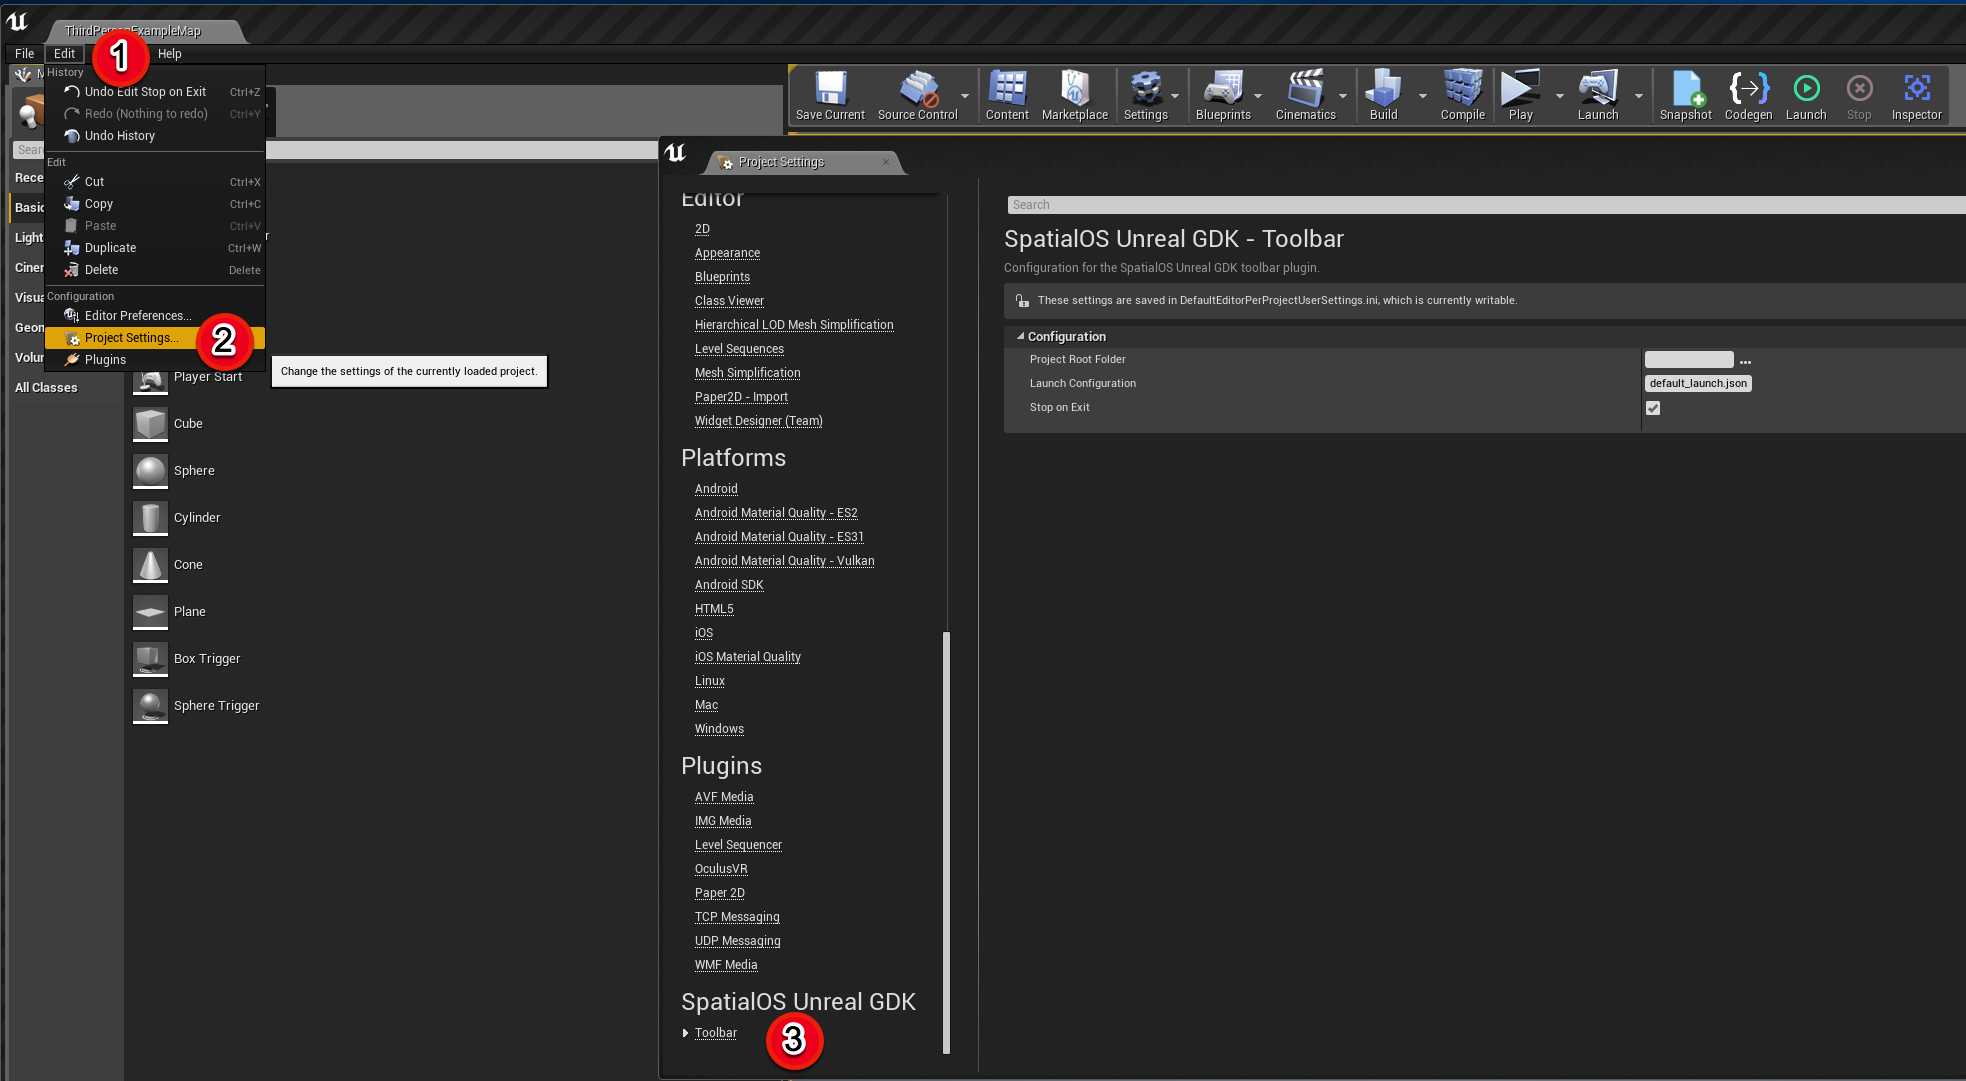
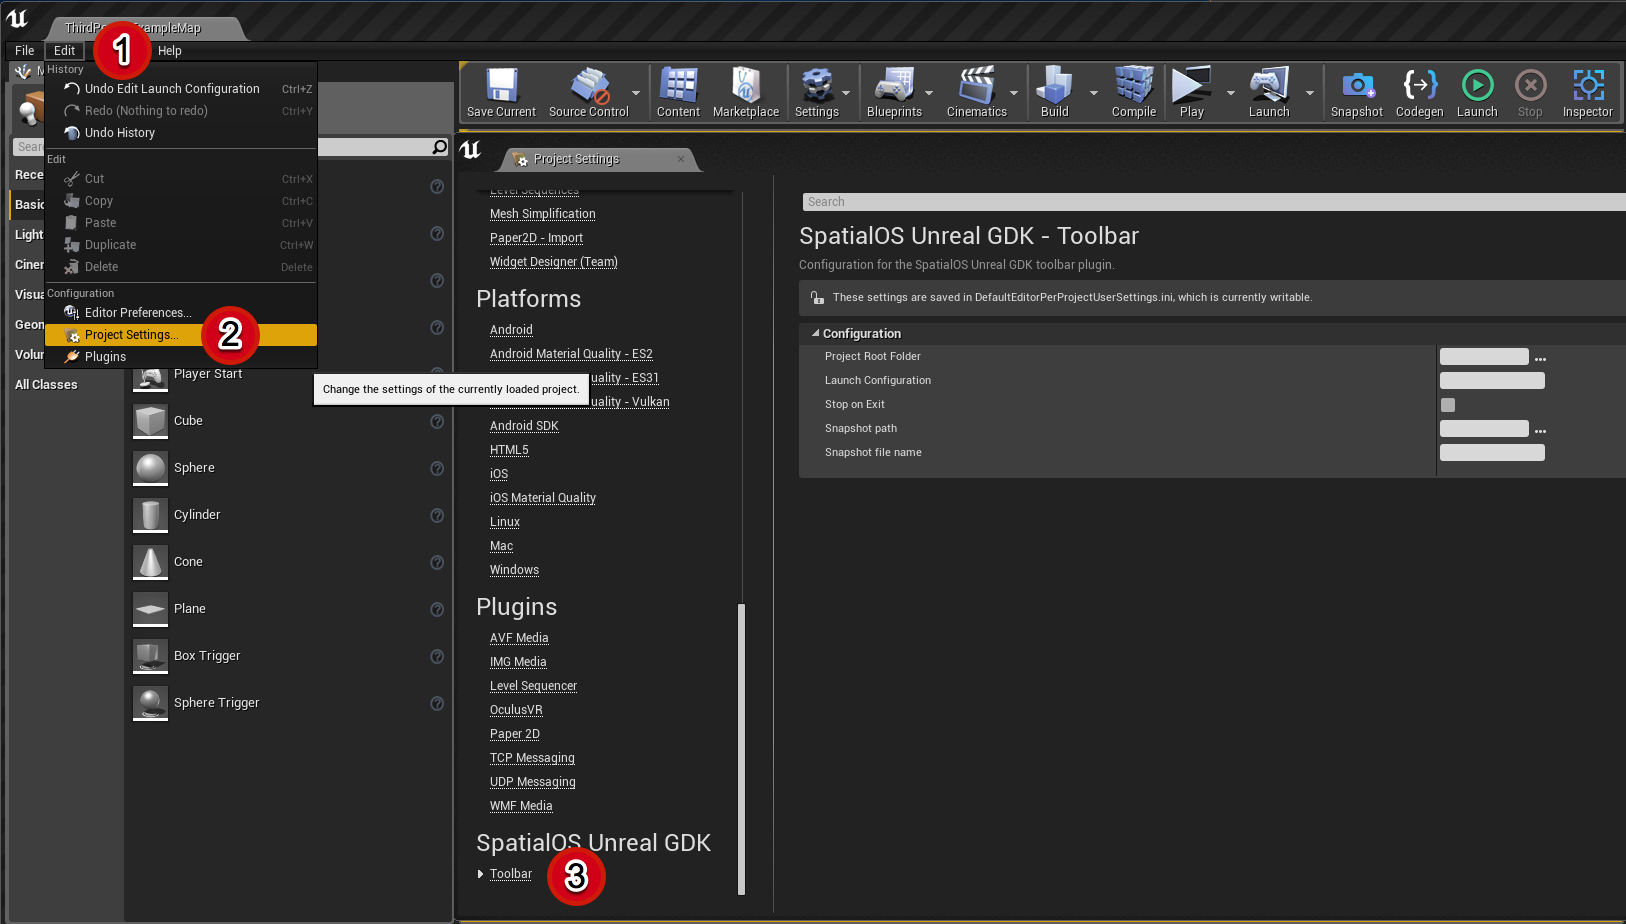
UNR-432 snapshot path config (#257)
* Extend settings by snapshot configs

* Update toolbar settings docs and screenshot

Changed region(s): [[0.0, 0.0, 1.0, 1.0], [0.492, 0.1818, 1.0, 0.5152]]

diff --git a/Plugins/SpatialGDK/SpatialGDKEditorToolbar/Source/SpatialGDKEditorToolbar/Private/SpatialGDKEditorGenerateSnapshot.cpp b/Plugins/SpatialGDK/SpatialGDKEditorToolbar/Source/SpatialGDKEditorToolbar/Private/SpatialGDKEditorGenerateSnapshot.cpp
@@ -5,8 +5,8 @@
 #include "SpatialConstants.h"
 #include "SpatialOSCommon.h"
 #include "SpatialGDKEditorUtils.h"
+#include "SpatialGDKEditorToolbarSettings.h"
 #include "Runtime/Core/Public/HAL/PlatformFilemanager.h"
-
 #include <improbable/standard_library.h>
 #include <improbable/unreal/gdk/level_data.h>
 #include <improbable/unreal/gdk/spawner.h>
@@ -122,27 +122,61 @@ worker::Entity CreateGlobalStateManagerEntity(const NameToEntityIdMap& Singleton
 
 } // ::
 
-bool SpatialGDKGenerateSnapshot(FString SavePath, UWorld* World)
+bool ValidateAndCreateSnapshotGenerationPath(FString& SavePath)
 {
-	if (!FPaths::CollapseRelativeDirectories(SavePath))
+	FString DirectoryPath = FPaths::GetPath(SavePath);
+	if (!FPaths::CollapseRelativeDirectories(DirectoryPath))
 	{
-		UE_LOG(LogSpatialGDKSnapshot, Error, TEXT("Invalid path: %s - snapshot not generated"), *SavePath);
+		UE_LOG(LogSpatialGDKSnapshot, Error, TEXT("Invalid path: %s - snapshot not generated"), *DirectoryPath);
 		return false;
 	}
 
-	if (!FPaths::DirectoryExists(SavePath))
+	if (!FPaths::DirectoryExists(DirectoryPath))
 	{
-		UE_LOG(LogSpatialGDKSnapshot, Display, TEXT("Snapshot directory does not exist - creating directory: %s"), *SavePath);
-		if (!FPlatformFileManager::Get().GetPlatformFile().CreateDirectoryTree(*SavePath))
+		UE_LOG(LogSpatialGDKSnapshot, Display, TEXT("Snapshot directory does not exist - creating directory: %s"), *DirectoryPath);
+		if (!FPlatformFileManager::Get().GetPlatformFile().CreateDirectoryTree(*DirectoryPath))
 		{
-			UE_LOG(LogSpatialGDKSnapshot, Error, TEXT("Unable to create directory: %s - snapshot not generated"), *SavePath);
+			UE_LOG(LogSpatialGDKSnapshot, Error, TEXT("Unable to create directory: %s - snapshot not generated"), *DirectoryPath);
 			return false;
 		}
 	}
+	return true;
+}
 
-	const FString FullPath = FPaths::Combine(*SavePath, TEXT("default.snapshot"));
-	UE_LOG(LogSpatialGDKSnapshot, Display, TEXT("Saving snapshot to: %s"), *FullPath);
-	worker::SnapshotOutputStream OutputStream = worker::SnapshotOutputStream(improbable::unreal::Components{}, TCHAR_TO_UTF8(*FullPath));
+FString SetupSnapshotGenerationPath()
+{
+	// Default path and file names.
+	const FString& ProjectFilePath = FPaths::ConvertRelativePathToFull(*FPaths::GetPath(FPaths::GetProjectFilePath()));
+	FString SavePath = FPaths::Combine(*ProjectFilePath, TEXT("../spatial/snapshots"));
+	FString SnapshotFileName = TEXT("default.snapshot");
+
+	if (const USpatialGDKEditorToolbarSettings* Settings = GetDefault<USpatialGDKEditorToolbarSettings>())
+	{
+		if (!Settings->SpatialOSSnapshotPath.Path.IsEmpty())
+		{
+			SavePath = Settings->SpatialOSSnapshotPath.Path;
+		}
+
+		if (!Settings->SpatialOSSnapshotFile.IsEmpty())
+		{
+			SnapshotFileName = Settings->SpatialOSSnapshotFile;
+		}
+	}
+
+	SavePath = FPaths::Combine(*SavePath, SnapshotFileName);
+	return SavePath;
+}
+
+bool SpatialGDKGenerateSnapshot(UWorld* World)
+{
+	FString SavePath = SetupSnapshotGenerationPath();
+	if (!ValidateAndCreateSnapshotGenerationPath(SavePath))
+	{
+		return false;
+	}
+
+	UE_LOG(LogSpatialGDKSnapshot, Display, TEXT("Saving snapshot to: %s"), *SavePath);
+	worker::SnapshotOutputStream OutputStream = worker::SnapshotOutputStream(improbable::unreal::Components{}, TCHAR_TO_UTF8(*SavePath));
 
 	// Create spawner entity.
 	worker::Option<std::string> Result = OutputStream.WriteEntity(SpatialConstants::SPAWNER_ENTITY_ID, CreateSpawnerEntity());
@@ -179,6 +213,6 @@ bool SpatialGDKGenerateSnapshot(FString SavePath, UWorld* World)
 		}
 	}
 
-	UE_LOG(LogSpatialGDKSnapshot, Display, TEXT("Snapshot exported to the path: %s"), *FullPath);
+	UE_LOG(LogSpatialGDKSnapshot, Display, TEXT("Snapshot exported to the path: %s"), *SavePath);
 	return true;
 }

diff --git a/Plugins/SpatialGDK/SpatialGDKEditorToolbar/Source/SpatialGDKEditorToolbar/Private/SpatialGDKEditorToolbarSettings.cpp b/Plugins/SpatialGDK/SpatialGDKEditorToolbar/Source/SpatialGDKEditorToolbar/Private/SpatialGDKEditorToolbarSettings.cpp
@@ -1,9 +1,14 @@
 // Copyright (c) Improbable Worlds Ltd, All Rights Reserved
 #include "SpatialGDKEditorToolbarSettings.h"
 
-USpatialGDKEditorToolbarSettings::USpatialGDKEditorToolbarSettings(const FObjectInitializer& ObjectInitializer) : SpatialOSLaunchConfig(TEXT("default_launch.json")), bStopSpatialOnExit(false), Super(ObjectInitializer)
+USpatialGDKEditorToolbarSettings::USpatialGDKEditorToolbarSettings(const FObjectInitializer& ObjectInitializer)
+	: Super(ObjectInitializer),
+	SpatialOSLaunchConfig(TEXT("default_launch.json")),
+	bStopSpatialOnExit(false),
+	SpatialOSSnapshotFile(FString(TEXT("default.snapshot")))
 {
 	ProjectRootFolder.Path = FPaths::ConvertRelativePathToFull(FPaths::GetPath(FPaths::GetProjectFilePath()) + FString(TEXT("/../spatial/")));
+	SpatialOSSnapshotPath.Path = FPaths::Combine(*ProjectRootFolder.Path, TEXT("snapshots/"));
 }
 
 FString USpatialGDKEditorToolbarSettings::ToString()
@@ -12,8 +17,11 @@ FString USpatialGDKEditorToolbarSettings::ToString()
 	Args.Add(ProjectRootFolder.Path);
 	Args.Add(SpatialOSLaunchConfig);
 	Args.Add(bStopSpatialOnExit);
+	Args.Add(SpatialOSSnapshotPath.Path);
+	Args.Add(SpatialOSSnapshotFile);
 
 	return FString::Format(TEXT("ProjectRootFolder={0}, SpatialOSLaunchArgument={1}, "
-								"bStopSpatialOnExit={2}"),
+		"bStopSpatialOnExit={2}, SpatialOSSnapshotPath={3}, "
+		"SpatialOSSnapshotFile={4}"),
 						   Args);
 }

diff --git a/Plugins/SpatialGDK/SpatialGDKEditorToolbar/Source/SpatialGDKEditorToolbar/Public/SpatialGDKEditorToolbarSettings.h b/Plugins/SpatialGDK/SpatialGDKEditorToolbar/Source/SpatialGDKEditorToolbar/Public/SpatialGDKEditorToolbarSettings.h
@@ -25,6 +25,14 @@ public:
 	UPROPERTY(EditAnywhere, config, Category = "Configuration", meta = (ConfigRestartRequired = false, DisplayName = "Stop on Exit"))
 	bool bStopSpatialOnExit;
 
+	/** Path to your SpatialOS snapshot. */
+	UPROPERTY(EditAnywhere, config, Category = "Configuration", meta = (ConfigRestartRequired = false, DisplayName = "Snapshot path"))
+	FDirectoryPath SpatialOSSnapshotPath;
+
+	/** Name of your SpatialOS snapshot file. */
+	UPROPERTY(EditAnywhere, config, Category = "Configuration", meta = (ConfigRestartRequired = false, DisplayName = "Snapshot file name"))
+	FString SpatialOSSnapshotFile;
+
 	UFUNCTION()
 	FString ToString();
 };

diff --git a/Plugins/SpatialGDK/SpatialGDKEditorToolbar/Source/SpatialGDKEditorToolbar/Private/SpatialGDKEditorToolbar.cpp b/Plugins/SpatialGDK/SpatialGDKEditorToolbar/Source/SpatialGDKEditorToolbar/Private/SpatialGDKEditorToolbar.cpp
@@ -237,9 +237,7 @@ void FSpatialGDKEditorToolbarModule::CreateSnapshotButtonClicked()
 {
 	ShowTaskStartNotification("Started snapshot generation");
 
-	FString ProjectFilePath = IFileManager::Get().ConvertToAbsolutePathForExternalAppForRead(*FPaths::GetPath(FPaths::GetProjectFilePath()));
-	FString CombinedPath = FPaths::Combine(*ProjectFilePath, TEXT("../spatial/snapshots"));
-	const bool bSuccess = SpatialGDKGenerateSnapshot(CombinedPath, GEditor->GetEditorWorldContext().World());
+	const bool bSuccess = SpatialGDKGenerateSnapshot(GEditor->GetEditorWorldContext().World());
 
 	if(bSuccess)
 	{

diff --git a/Plugins/SpatialGDK/SpatialGDKEditorToolbar/Source/SpatialGDKEditorToolbar/Public/SpatialGDKEditorGenerateSnapshot.h b/Plugins/SpatialGDK/SpatialGDKEditorToolbar/Source/SpatialGDKEditorToolbar/Public/SpatialGDKEditorGenerateSnapshot.h
@@ -4,4 +4,4 @@
 
 DECLARE_LOG_CATEGORY_EXTERN(LogSpatialGDKSnapshot, Log, All);
 
-bool SpatialGDKGenerateSnapshot(FString SavePath, UWorld* World);
+bool SpatialGDKGenerateSnapshot(UWorld* World);

diff --git a/docs/content/toolbar.md b/docs/content/toolbar.md
@@ -68,3 +68,9 @@ The [launch configuration file](https://docs.improbable.io/reference/13.1/shared
 
 * **Stop on Exit**</br>
 If enabled, shuts down running deployments when you close the Unreal Editor.
+
+* **Snapshot path**</br>
+Path to your SpatialOS Unreal GDK snapshot.
+
+* **Snapshot file name**</br>
+Name of your SpatialOS Unreal GDK snapshot file.
